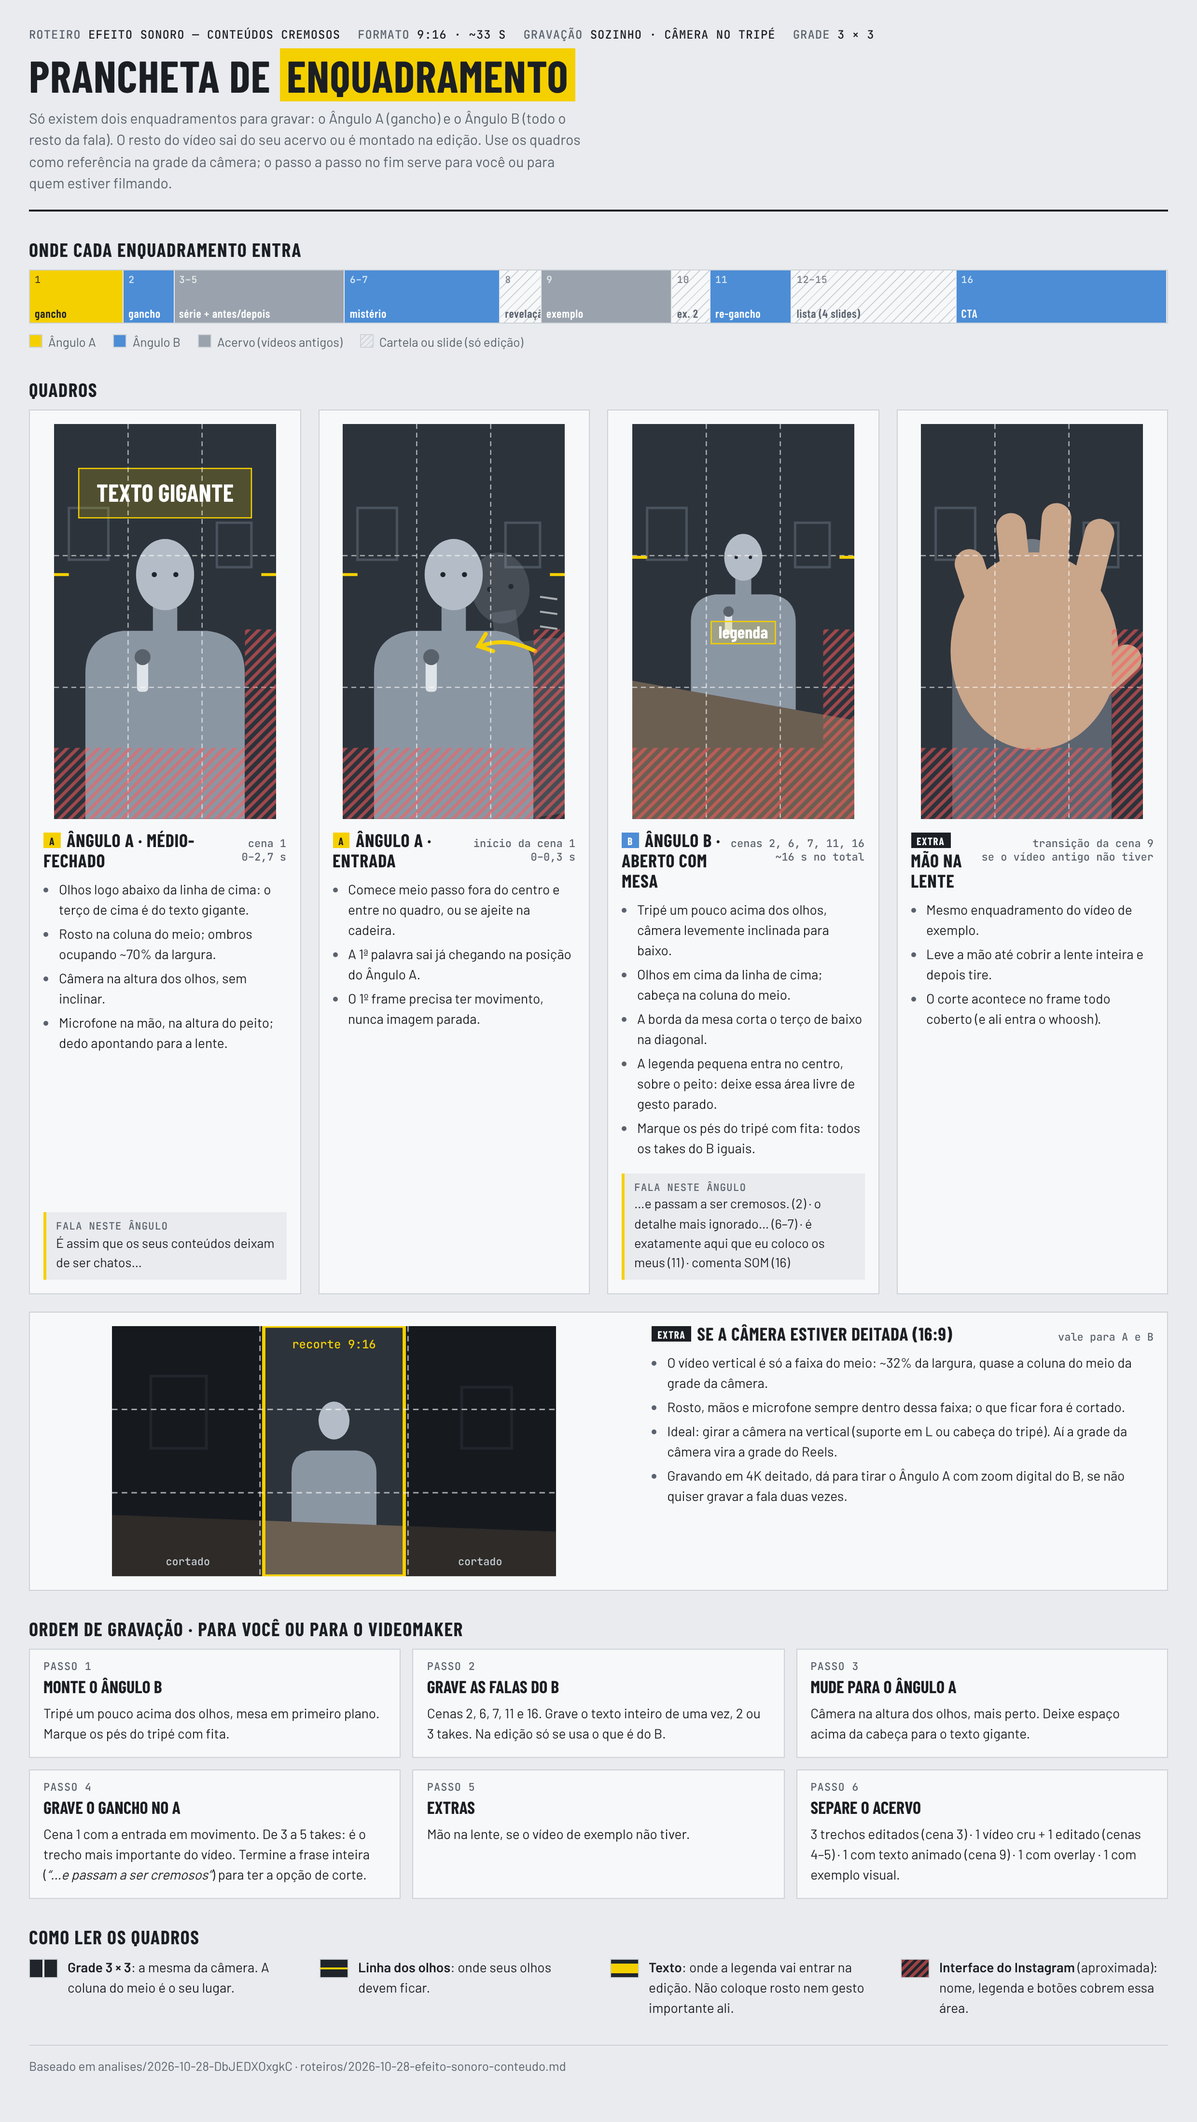
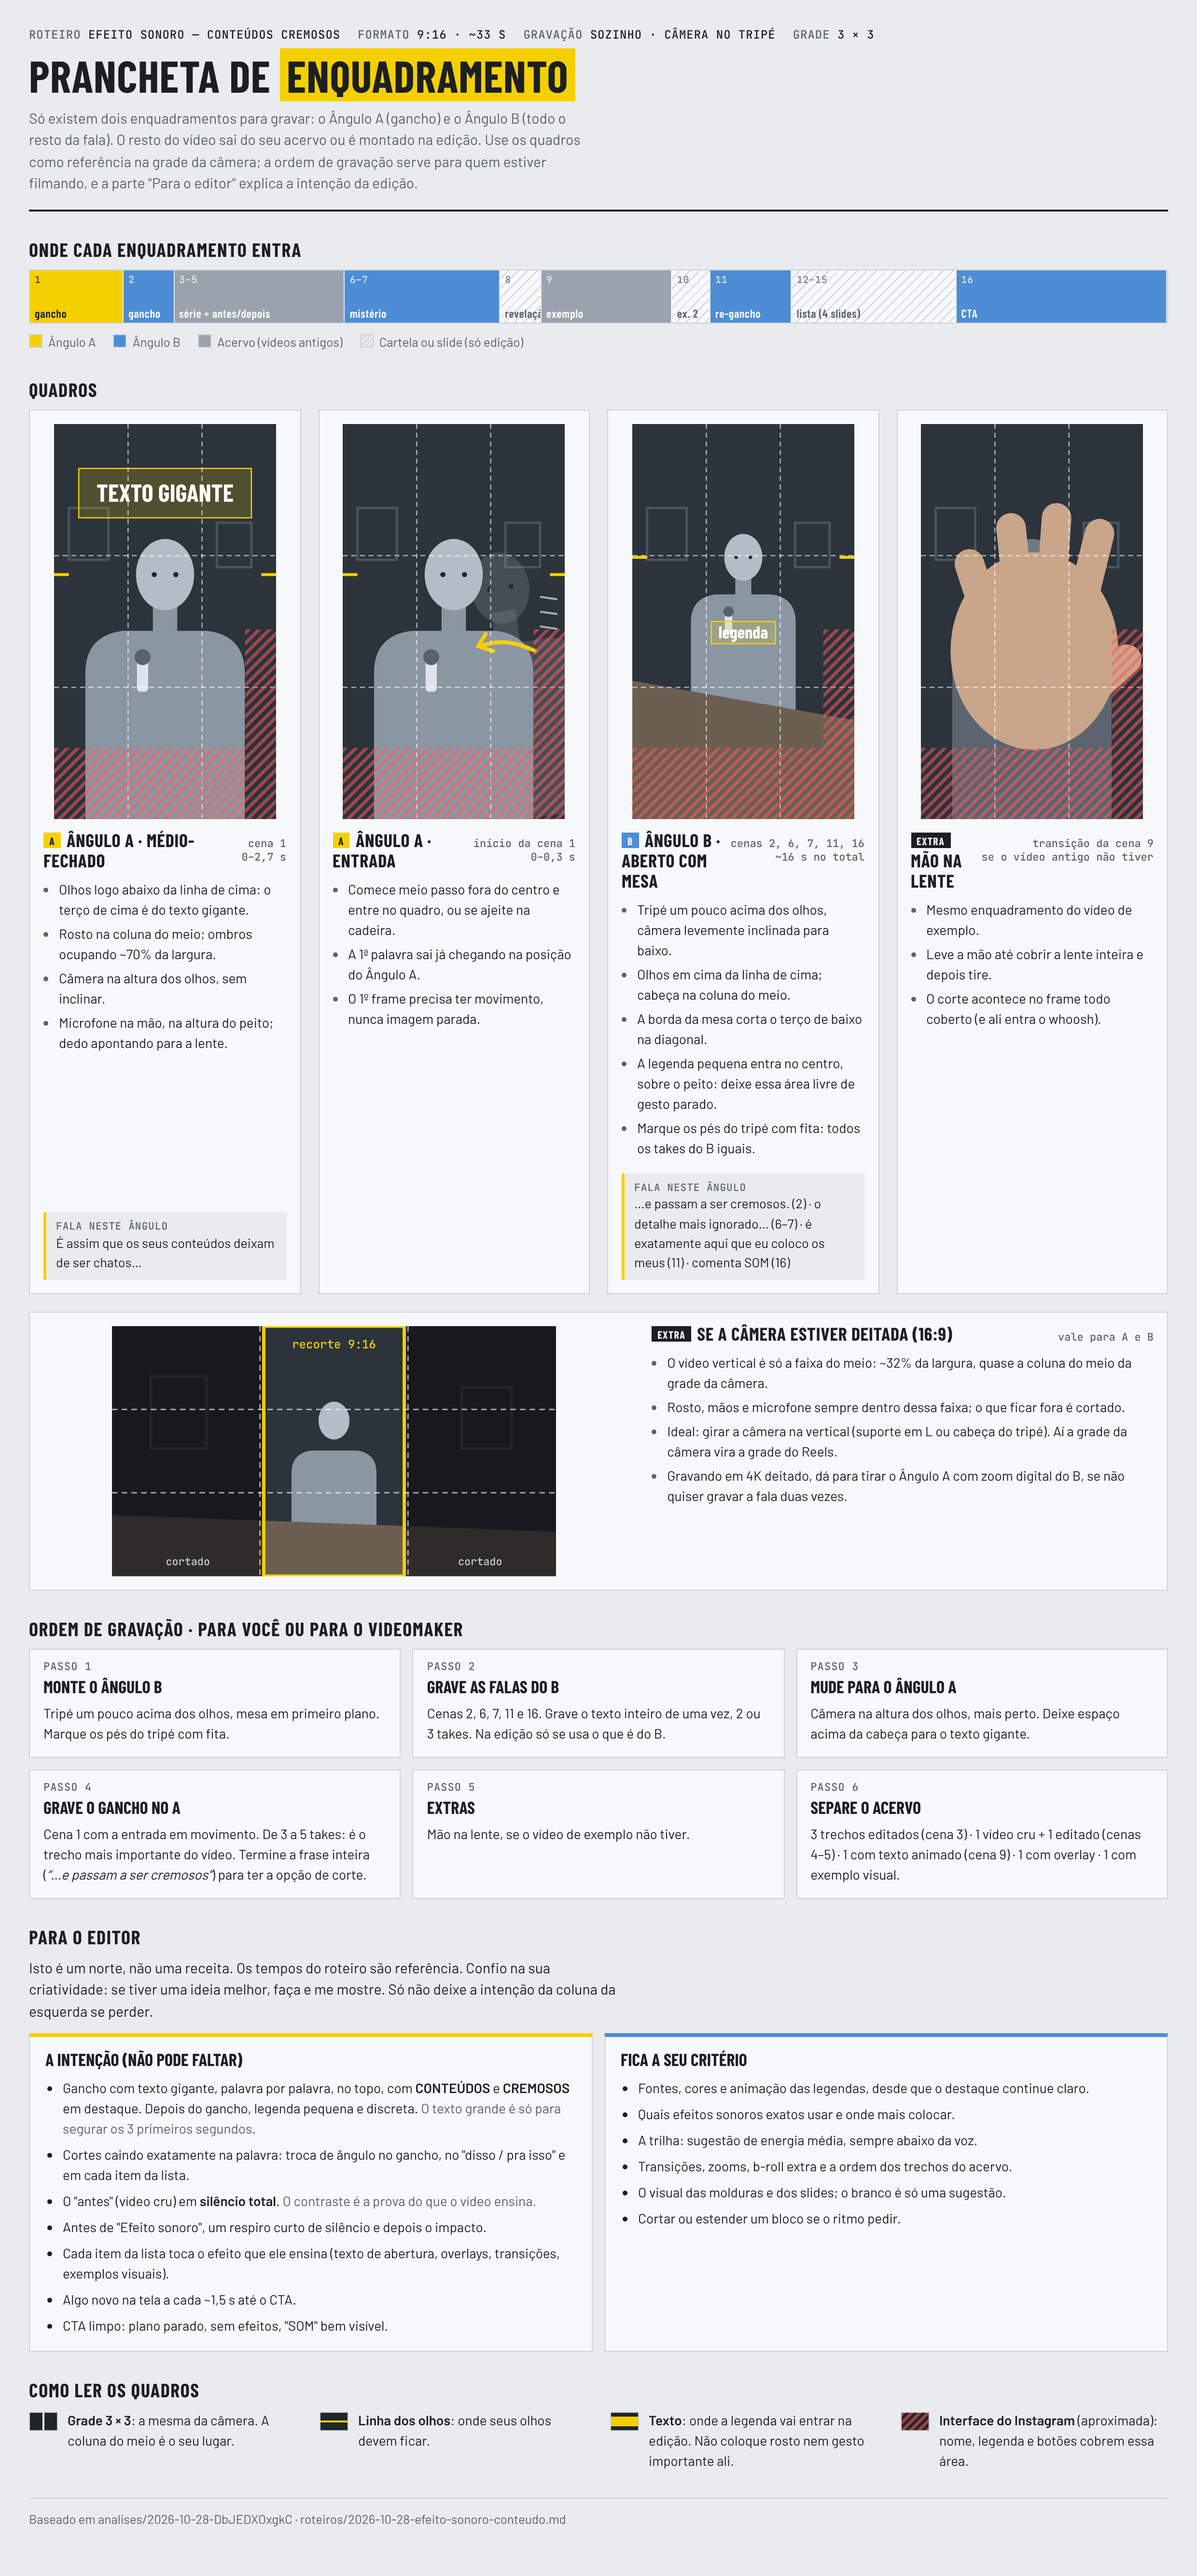
prancheta: seção para o editor (intenção × critério dele)
Claude-Session: https://claude.ai/code/session_01D8US4amoeLiow8erMtaFUC

diff --git a/roteiros/2026-10-28-efeito-sonoro-conteudo-prancheta.html b/roteiros/2026-10-28-efeito-sonoro-conteudo-prancheta.html
@@ -80,6 +80,14 @@ ol.steps p { margin: 0; font-size: 14px; }
 ol.steps q { quotes: "“" "”"; font-style: italic; }
 .fala { margin: 0 14px 14px; padding: 8px 10px; border-left: 3px solid var(--accent); background: var(--bg); font-size: 13.5px; }
 .fala b { display: block; font: 500 10.5px/1.3 var(--mono); text-transform: uppercase; letter-spacing: .05em; color: var(--muted); }
+.editor { display: grid; grid-template-columns: repeat(auto-fit, minmax(300px, 1fr)); gap: 12px; }
+.editor > div { background: var(--paper); border: 1px solid var(--line); padding: 14px 16px 16px; min-width: 0; }
+.editor > div.must { border-top: 4px solid var(--accent); }
+.editor > div.free { border-top: 4px solid var(--b); }
+.editor h3 { margin: 0 0 8px; font: 700 18px/1.1 var(--display); text-transform: uppercase; }
+.editor ul { margin: 0; padding-left: 18px; display: grid; gap: 6px; font-size: 14px; }
+.editor .why { color: var(--muted); }
+.note { margin: 0 0 12px; max-width: 72ch; }
 @media print { body { background: #fff; } .card, ol.steps li { break-inside: avoid; } .strip-box { overflow: visible; } }
 footer { font-size: 13px; color: var(--muted); border-top: 1px solid var(--line); padding-top: 12px; }
 </style>
@@ -88,7 +96,7 @@ footer { font-size: 13px; color: var(--muted); border-top: 1px solid var(--line)
   <header>
     <div class="slate"><span>Roteiro <b>efeito sonoro — conteúdos cremosos</b></span><span>Formato <b>9:16 · ~33 s</b></span><span>Gravação <b>sozinho · câmera no tripé</b></span><span>Grade <b>3 × 3</b></span></div>
     <h1>Prancheta de <span>enquadramento</span></h1>
-    <p class="lead">Só existem dois enquadramentos para gravar: o Ângulo A (gancho) e o Ângulo B (todo o resto da fala). O resto do vídeo sai do seu acervo ou é montado na edição. Use os quadros como referência na grade da câmera; o passo a passo no fim serve para você ou para quem estiver filmando.</p>
+    <p class="lead">Só existem dois enquadramentos para gravar: o Ângulo A (gancho) e o Ângulo B (todo o resto da fala). O resto do vídeo sai do seu acervo ou é montado na edição. Use os quadros como referência na grade da câmera; a ordem de gravação serve para quem estiver filmando, e a parte "Para o editor" explica a intenção da edição.</p>
   </header>
 
   <section>
@@ -117,6 +125,30 @@ footer { font-size: 13px; color: var(--muted); border-top: 1px solid var(--line)
       <li><h3>Extras</h3><p>Mão na lente, se o vídeo de exemplo não tiver.</p></li>
       <li><h3>Separe o acervo</h3><p>3 trechos editados (cena 3) · 1 vídeo cru + 1 editado (cenas 4–5) · 1 com texto animado (cena 9) · 1 com overlay · 1 com exemplo visual.</p></li>
     </ol>
+  </section>
+
+  <section>
+    <h2>Para o editor</h2>
+    <p class="note">Isto é um norte, não uma receita. Os tempos do roteiro são referência. Confio na sua criatividade: se tiver uma ideia melhor, faça e me mostre. Só não deixe a intenção da coluna da esquerda se perder.</p>
+    <div class="editor">
+      <div class="must"><h3>A intenção (não pode faltar)</h3><ul>
+        <li>Gancho com texto gigante, palavra por palavra, no topo, com <b>CONTEÚDOS</b> e <b>CREMOSOS</b> em destaque. Depois do gancho, legenda pequena e discreta. <span class="why">O texto grande é só para segurar os 3 primeiros segundos.</span></li>
+        <li>Cortes caindo exatamente na palavra: troca de ângulo no gancho, no "disso / pra isso" e em cada item da lista.</li>
+        <li>O "antes" (vídeo cru) em <b>silêncio total</b>. <span class="why">O contraste é a prova do que o vídeo ensina.</span></li>
+        <li>Antes de "Efeito sonoro", um respiro curto de silêncio e depois o impacto.</li>
+        <li>Cada item da lista toca o efeito que ele ensina (texto de abertura, overlays, transições, exemplos visuais).</li>
+        <li>Algo novo na tela a cada ~1,5 s até o CTA.</li>
+        <li>CTA limpo: plano parado, sem efeitos, "SOM" bem visível.</li>
+      </ul></div>
+      <div class="free"><h3>Fica a seu critério</h3><ul>
+        <li>Fontes, cores e animação das legendas, desde que o destaque continue claro.</li>
+        <li>Quais efeitos sonoros exatos usar e onde mais colocar.</li>
+        <li>A trilha: sugestão de energia média, sempre abaixo da voz.</li>
+        <li>Transições, zooms, b-roll extra e a ordem dos trechos do acervo.</li>
+        <li>O visual das molduras e dos slides; o branco é só uma sugestão.</li>
+        <li>Cortar ou estender um bloco se o ritmo pedir.</li>
+      </ul></div>
+    </div>
   </section>
 
   <section>

diff --git a/templates/prancheta.html b/templates/prancheta.html
@@ -80,6 +80,14 @@ ol.steps p { margin: 0; font-size: 14px; }
 ol.steps q { quotes: "“" "”"; font-style: italic; }
 .fala { margin: 0 14px 14px; padding: 8px 10px; border-left: 3px solid var(--accent); background: var(--bg); font-size: 13.5px; }
 .fala b { display: block; font: 500 10.5px/1.3 var(--mono); text-transform: uppercase; letter-spacing: .05em; color: var(--muted); }
+.editor { display: grid; grid-template-columns: repeat(auto-fit, minmax(300px, 1fr)); gap: 12px; }
+.editor > div { background: var(--paper); border: 1px solid var(--line); padding: 14px 16px 16px; min-width: 0; }
+.editor > div.must { border-top: 4px solid var(--accent); }
+.editor > div.free { border-top: 4px solid var(--b); }
+.editor h3 { margin: 0 0 8px; font: 700 18px/1.1 var(--display); text-transform: uppercase; }
+.editor ul { margin: 0; padding-left: 18px; display: grid; gap: 6px; font-size: 14px; }
+.editor .why { color: var(--muted); }
+.note { margin: 0 0 12px; max-width: 72ch; }
 @media print { body { background: #fff; } .card, ol.steps li { break-inside: avoid; } .strip-box { overflow: visible; } }
 footer { font-size: 13px; color: var(--muted); border-top: 1px solid var(--line); padding-top: 12px; }
 </style>
@@ -88,7 +96,7 @@ footer { font-size: 13px; color: var(--muted); border-top: 1px solid var(--line)
   <header>
     <div class="slate"><span>Roteiro <b>efeito sonoro — conteúdos cremosos</b></span><span>Formato <b>9:16 · ~33 s</b></span><span>Gravação <b>sozinho · câmera no tripé</b></span><span>Grade <b>3 × 3</b></span></div>
     <h1>Prancheta de <span>enquadramento</span></h1>
-    <p class="lead">Só existem dois enquadramentos para gravar: o Ângulo A (gancho) e o Ângulo B (todo o resto da fala). O resto do vídeo sai do seu acervo ou é montado na edição. Use os quadros como referência na grade da câmera; o passo a passo no fim serve para você ou para quem estiver filmando.</p>
+    <p class="lead">Só existem dois enquadramentos para gravar: o Ângulo A (gancho) e o Ângulo B (todo o resto da fala). O resto do vídeo sai do seu acervo ou é montado na edição. Use os quadros como referência na grade da câmera; a ordem de gravação serve para quem estiver filmando, e a parte "Para o editor" explica a intenção da edição.</p>
   </header>
 
   <section>
@@ -117,6 +125,30 @@ footer { font-size: 13px; color: var(--muted); border-top: 1px solid var(--line)
       <li><h3>Extras</h3><p>Mão na lente, se o vídeo de exemplo não tiver.</p></li>
       <li><h3>Separe o acervo</h3><p>3 trechos editados (cena 3) · 1 vídeo cru + 1 editado (cenas 4–5) · 1 com texto animado (cena 9) · 1 com overlay · 1 com exemplo visual.</p></li>
     </ol>
+  </section>
+
+  <section>
+    <h2>Para o editor</h2>
+    <p class="note">Isto é um norte, não uma receita. Os tempos do roteiro são referência. Confio na sua criatividade: se tiver uma ideia melhor, faça e me mostre. Só não deixe a intenção da coluna da esquerda se perder.</p>
+    <div class="editor">
+      <div class="must"><h3>A intenção (não pode faltar)</h3><ul>
+        <li>Gancho com texto gigante, palavra por palavra, no topo, com <b>CONTEÚDOS</b> e <b>CREMOSOS</b> em destaque. Depois do gancho, legenda pequena e discreta. <span class="why">O texto grande é só para segurar os 3 primeiros segundos.</span></li>
+        <li>Cortes caindo exatamente na palavra: troca de ângulo no gancho, no "disso / pra isso" e em cada item da lista.</li>
+        <li>O "antes" (vídeo cru) em <b>silêncio total</b>. <span class="why">O contraste é a prova do que o vídeo ensina.</span></li>
+        <li>Antes de "Efeito sonoro", um respiro curto de silêncio e depois o impacto.</li>
+        <li>Cada item da lista toca o efeito que ele ensina (texto de abertura, overlays, transições, exemplos visuais).</li>
+        <li>Algo novo na tela a cada ~1,5 s até o CTA.</li>
+        <li>CTA limpo: plano parado, sem efeitos, "SOM" bem visível.</li>
+      </ul></div>
+      <div class="free"><h3>Fica a seu critério</h3><ul>
+        <li>Fontes, cores e animação das legendas, desde que o destaque continue claro.</li>
+        <li>Quais efeitos sonoros exatos usar e onde mais colocar.</li>
+        <li>A trilha: sugestão de energia média, sempre abaixo da voz.</li>
+        <li>Transições, zooms, b-roll extra e a ordem dos trechos do acervo.</li>
+        <li>O visual das molduras e dos slides; o branco é só uma sugestão.</li>
+        <li>Cortar ou estender um bloco se o ritmo pedir.</li>
+      </ul></div>
+    </div>
   </section>
 
   <section>

diff --git a/metodo/MEU-PERFIL.md b/metodo/MEU-PERFIL.md
@@ -9,7 +9,7 @@ o Claude pergunta e preenche aqui.
 - **Objetivo dos vídeos (seguidores, vendas, agendamentos, autoridade…):**
 - **Tom de voz (sério, engraçado, direto, acolhedor…):**
 - **Expressões que eu uso / que eu nunca uso:** uso "conteúdos", "conteúdos estratégicos". Nunca uso "vídeo de empresa", "vídeo do seu negócio". Assinatura: fecho frases com um toque diferenciado e inesperado no lugar da palavra óbvia (ex.: "deixam de ser chatos e passam a ser *cremosos*") — sempre que der no gancho; no resto, só quando couber.
-- **Como eu gravo (sozinho, celular, tripé, tem ajudante, lugar):** sozinho, câmera no tripé. Tenho acervo de vídeos antigos (crus e editados) para antes/depois e b-roll
+- **Como eu gravo (sozinho, celular, tripé, tem ajudante, lugar):** sozinho, câmera no tripé. Tenho acervo de vídeos antigos (crus e editados) para antes/depois e b-roll. Às vezes com videomaker e editor: confio na criatividade deles, então os materiais (roteiro e prancheta) explicam a intenção e o que é essencial, e deixam o resto livre — sem travar
 - **Editor que eu uso (CapCut, InShot, Premiere…):** CapCut ou Premiere
 - **CTA preferido:**
 - **Limites (não mostro rosto, não falo de X…):**

diff --git a/.claude/skills/criar-roteiro/SKILL.md b/.claude/skills/criar-roteiro/SKILL.md
@@ -31,6 +31,8 @@ Material para o dono e para um videomaker gravarem sem precisar ler o roteiro in
   entra o texto, área da interface do Instagram, notas curtas e a fala daquele ângulo. Inclua os extras
   (entrada em movimento, mão na lente…) e o quadro "câmera deitada (16:9)", porque o dono grava em câmera.
 - Faixa "onde cada enquadramento entra" com as cenas e os tempos; "Ordem de gravação" em passos para o videomaker.
+- Seção "Para o editor": "A intenção (não pode faltar)" — as mecânicas que fazem o vídeo funcionar — e
+  "Fica a seu critério". O dono confia na criatividade do editor: oriente a intenção, não trave.
 - Gere o PNG (Playwright, página inteira, 1240 px, escala 2) ao lado do HTML, publique a página como
   Artifact e ponha os dois links no topo do roteiro.
 
